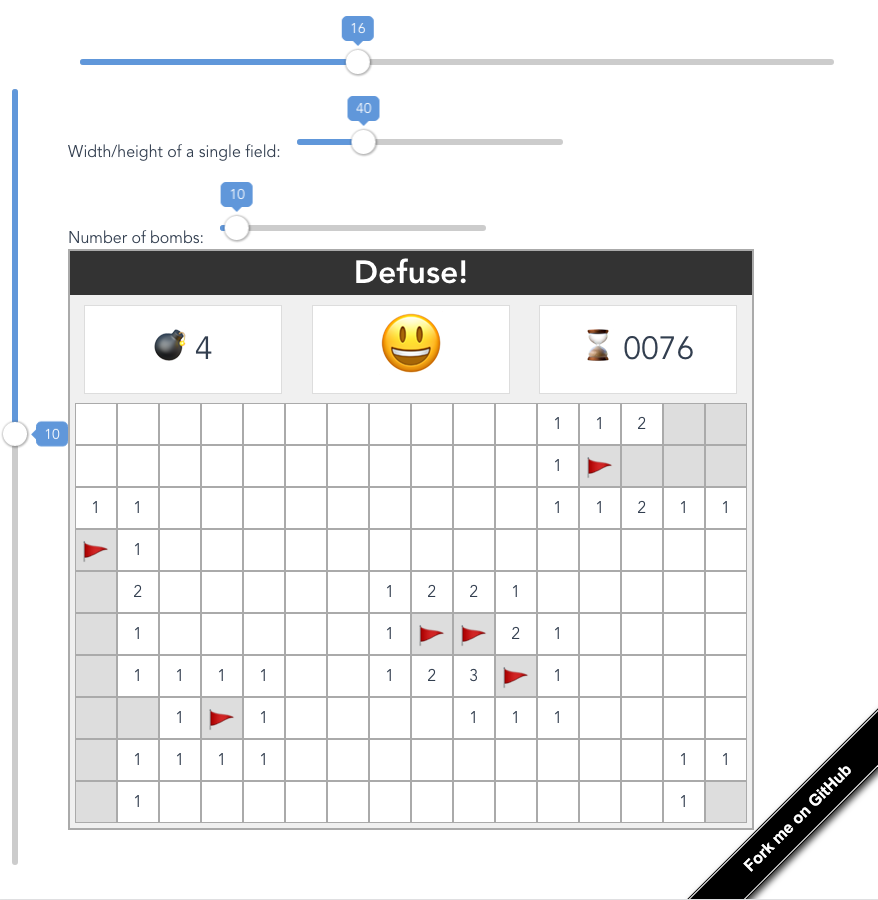
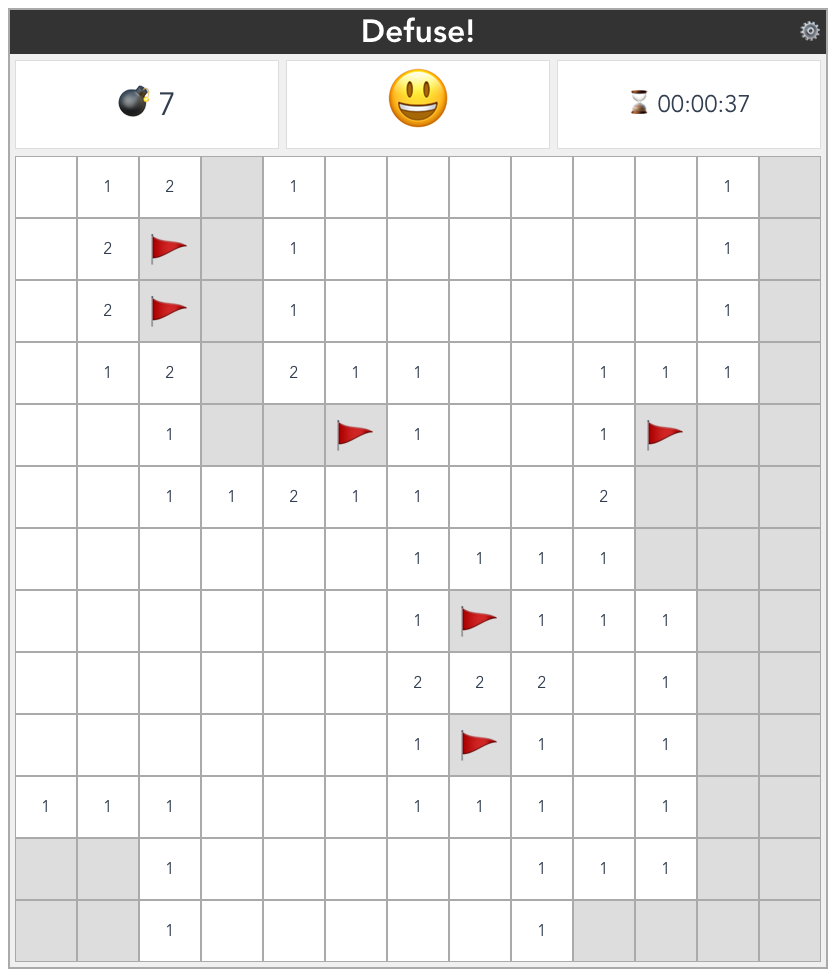
updated screenshot

diff --git a/src/App.vue b/src/App.vue
@@ -42,7 +42,7 @@ export default {
     return {
       dimX: 10,
       dimY: 10,
-      fieldWidth: 40,
+      fieldWidth: 60,
       numberOfBombs: 10,
       sliderOptions,
       verticalSliderOptions,
